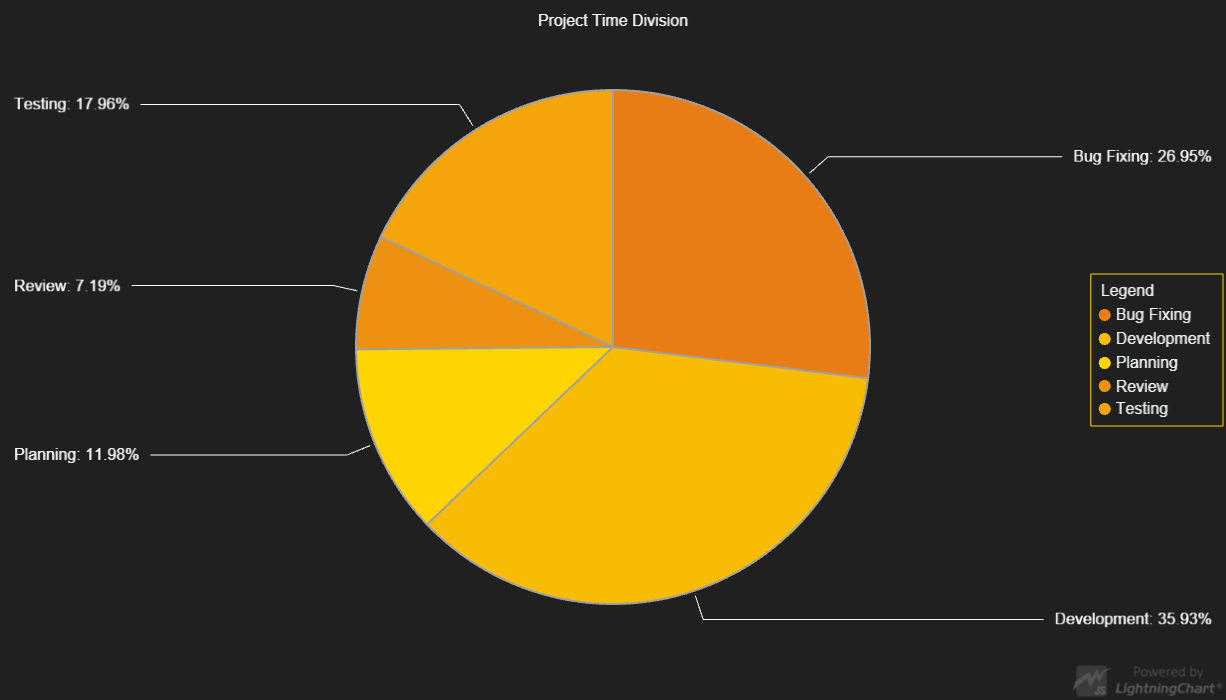
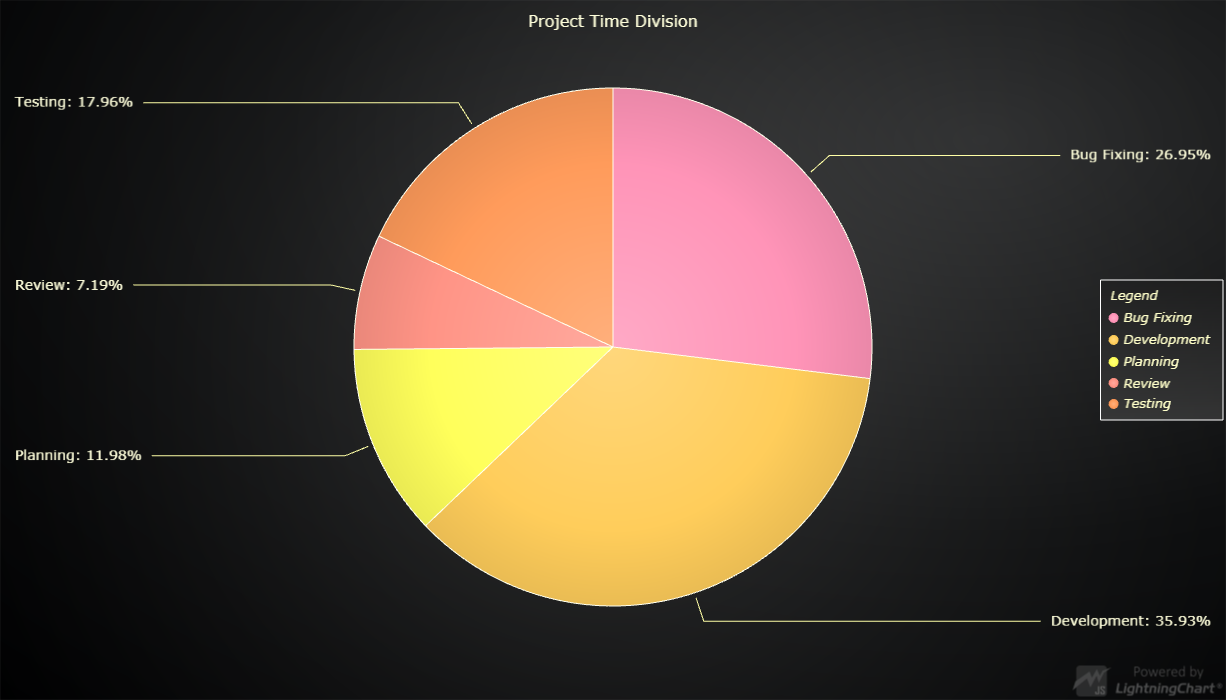
Update LCJS version

diff --git a/src/index.js b/src/index.js
@@ -10,18 +10,13 @@ const {
     PieChartTypes,
     LegendBoxBuilders,
     SliceLabelFormatters,
-    SolidFillPalette,
-    ColorPalettes,
-    SolidFill,
-    SolidLine,
-    ColorRGBA,
     Themes
 } = lcjs
 
 const pieType = window.innerWidth > 599 ? PieChartTypes.LabelsOnSides : PieChartTypes.LabelsInsideSlices
 
 const pie = lightningChart().Pie({
-    // theme: Themes.dark 
+    // theme: Themes.darkGold 
     type: pieType
 })
     .setTitle('Project Time Division')
@@ -62,14 +57,9 @@ pie.setLabelFormatter(SliceLabelFormatters.NamePlusRelativeValue)
 
 // ----- Add LegendBox -----
 pie.addLegendBox(LegendBoxBuilders.VerticalLegendBox)
+    // Dispose example UI elements automatically if they take too much space. This is to avoid bad UI on mobile / etc. devices.
+    .setAutoDispose({
+        type: 'max-width',
+        maxWidth: 0.30,
+    })
     .add(pie)
-
-// ----- Create custom Palette for Pie (defines color of Slice filling) ----
-// const palette = SolidFillPalette(ColorPalettes.sector(180, 320, 0.7, 0.7), 5)
-
-// --------- Create line around slices -----
-const customStrokeStyle = new SolidLine({ fillStyle: new SolidFill({ color: ColorRGBA(160, 160, 160) }), thickness: 2 })
-
-pie
-//    .setSliceFillStyle(palette)
-   .setSliceStrokeStyle(customStrokeStyle)

diff --git a/webpack.config.js b/webpack.config.js
@@ -69,7 +69,8 @@ module.exports = {
         }),
         new CopyWebpackPlugin({
             patterns: [
-                { from: './assets/**/*', to: './examples/assets', flatten: true, noErrorOnMissing: true }
+                { from: './assets/**/*', to: './examples/assets', flatten: true, noErrorOnMissing: true },
+                { from: './node_modules/@arction/lcjs/dist/resources', to: 'resources', noErrorOnMissing: true },
             ]
         })
     ]

diff --git a/README.md b/README.md
@@ -91,7 +91,7 @@ Direct developer email support can be purchased through a [Support Plan][4] or b
 © Arction Ltd 2009-2020. All rights reserved.
 
 
-[Pie Chart]: https://www.arction.com/lightningchart-js-api-documentation/v3.0.1/classes/piechart.html
-[Pie Chart Types]: https://www.arction.com/lightningchart-js-api-documentation/v3.0.1/globals.html#piecharttypes
-[Pie Slice label formatter]: https://www.arction.com/lightningchart-js-api-documentation/v3.0.1/globals.html#slicelabelformatter
+[Pie Chart]: https://www.arction.com/lightningchart-js-api-documentation/v3.1.0/classes/piechart.html
+[Pie Chart Types]: https://www.arction.com/lightningchart-js-api-documentation/v3.1.0/globals.html#piecharttypes
+[Pie Slice label formatter]: https://www.arction.com/lightningchart-js-api-documentation/v3.1.0/globals.html#slicelabelformatter
 
